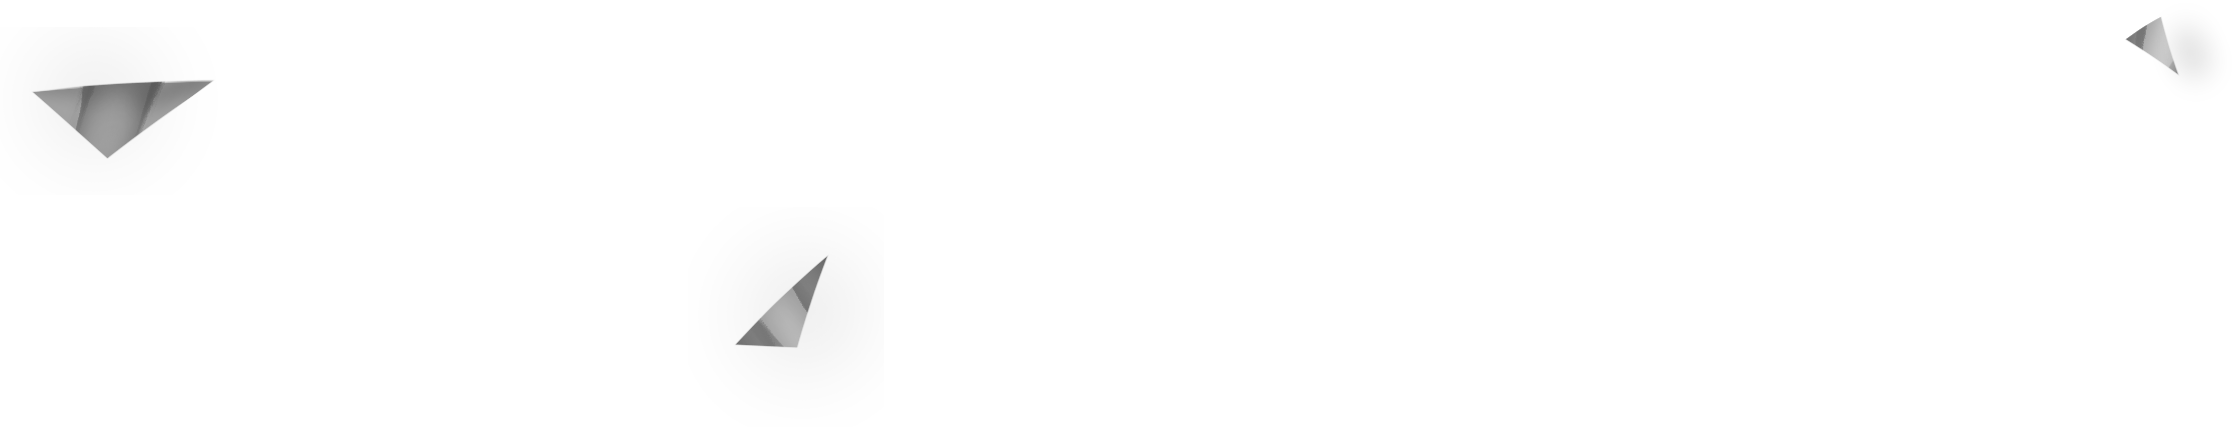
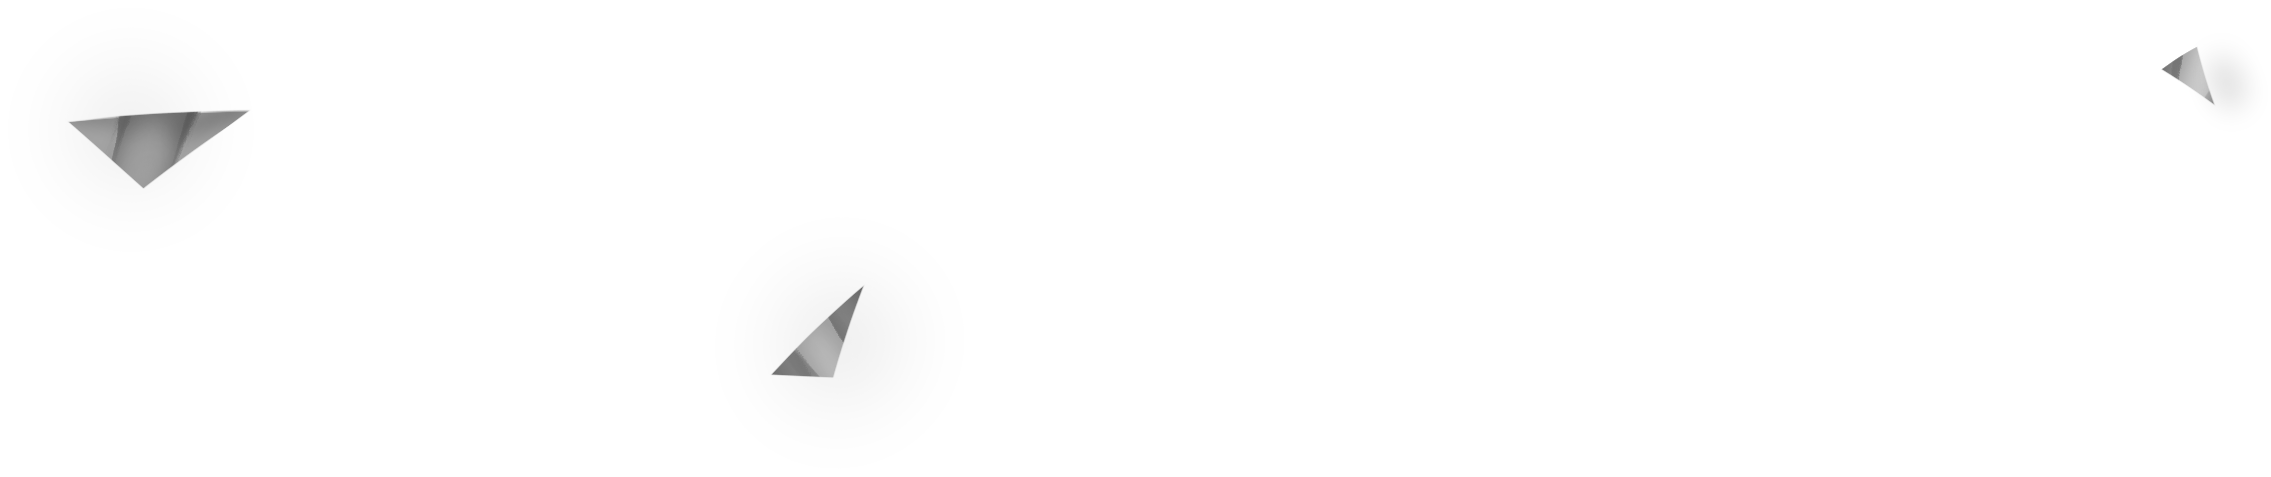
assemble checkbox graphics

Changed region(s): [[0.0, 0.1827, 0.1235, 0.3958], [0.3087, 0.6089, 0.4013, 0.822], [0.957, 0.0304, 0.9879, 0.2131]]

diff --git a/src/app/pages/menu-page/menu-page.component.html b/src/app/pages/menu-page/menu-page.component.html
@@ -17,7 +17,7 @@
                 <img src="./assets/Sign-Up-Button.png" class="button-placard">
             </div>
 
-            <div id="view-aa-button" class="center-center view-aa-button-appear-animation" (click)="navigateToVerdict()">
+            <div id="view-aa-button" class="center-center view-aa-button-appear-animation" (click)="openModal()">
                 <img src="./assets/View-AA-Title.png" id="view-aa-title" class="button-title">
                 <img src="./assets/View-AA-Button.png" class="button-placard">
             </div>
@@ -31,4 +31,52 @@
         <div id="voidPiece-2" class="voidPiece-2-appear-animation"><img src="./assets/VoidPiece-2.png"></div>
         <div id="buttonHolder-background" class="background-appear-animation"><img src="./assets/ButtonHolder-Background.png"></div>
     </div>
+    
+    <div id="checkbox" class="center-center" >
+        <div id="blur-background" (click)="closeModal()"></div>
+        <div id="checkbox-content" class="center-center">
+            
+            <div id="background-container" class="center-center">
+                <img src="./assets/Checkbox-Graphics/Checkbox-VoidPiece-1.png" id="Checkbox-VoidPiece-1" class="pos-absolute">
+                <img src="./assets/Checkbox-Graphics/Checkbox-VoidPiece-2.png" id="Checkbox-VoidPiece-2" class="pos-absolute">
+
+                <img src="./assets/Checkbox-Graphics/Checkbox-Line-1.png" id="Checkbox-Line-1" class="pos-absolute">
+                <img src="./assets/Checkbox-Graphics/Checkbox-Line-2.png" id="Checkbox-Line-2" class="pos-absolute">
+                <img src="./assets/Checkbox-Graphics/Checkbox-Line-3.png" id="Checkbox-Line-3" class="pos-absolute">
+
+                <img src="./assets/Checkbox-Graphics/GlassPieces-1.png" id="GlassPieces-1" class="pos-absolute">
+                <img src="./assets/Checkbox-Graphics/GlassPieces-2.png" id="GlassPieces-2" class="pos-absolute">
+                <img src="./assets/Checkbox-Graphics/GlassPieces-3.png" id="GlassPieces-3" class="pos-absolute">
+            </div> 
+
+            <div id="questionMark-container" class="center-center">
+                <img src="./assets/Checkbox-Graphics/QuestionMark-Holder-Decor.png" id="QuestionMark-Decor" class="pos-absolute">
+                <img src="./assets/Checkbox-Graphics/QuestionMark-Radiant.png" id="QuestionMark-Radiant" class="pos-absolute">
+                <img src="./assets/Checkbox-Graphics/QuestionMark-Background.png" id="QuestionMark-Background" class="pos-absolute">
+                <img src="./assets/Checkbox-Graphics/QuestionMark-Holder.png" id="QuestionMark-Holder" class="pos-absolute">
+                <img src="./assets/Checkbox-Graphics/QuestionMark-Outline.png" id="QuestionMark-Outline" class="pos-absolute">
+                <img src="./assets/Checkbox-Graphics/QuestionMark.png" id="QuestionMark" class="pos-absolute">
+            </div>
+
+            <div id="textbox-container" class="center-center">
+                <img src="./assets/Checkbox-Graphics/TextBox.png" id="TextBox" class="pos-absolute">
+                <img src="./assets/Checkbox-Graphics/TextBox-Outline.png" id="TextBox-Outline" class="pos-absolute">
+                <img src="./assets/Checkbox-Graphics/TextBox-Title.png" id="TextBox-Title" class="pos-absolute">
+            </div>
+
+            <div id="button-container" class="center-center">
+                <img src="./assets/Checkbox-Graphics/Checkbox-Line.png" id="" class="pos-absolute">              
+                <div id="No-checkbox" class="pos-absolute center-center" (click)="closeModal()">
+                    <img src="./assets/Checkbox-Graphics/No-Checkbox.png" id="" class="pos-absolute">
+                    <img src="./assets/Checkbox-Graphics/No-Checkbox-Title.png" id="Checkbox-Title" class="pos-absolute">
+                </div>
+                <div id="Yes-checkbox" class="pos-absolute center-center" (click)="navigateToVerdict()">
+                    <img src="./assets/Checkbox-Graphics/Yes-Checkbox.png" id="" class="pos-absolute">
+                    <img src="./assets/Checkbox-Graphics/Yes-Checkbox-Title.png" id="Checkbox-Title" class="pos-absolute">
+                </div>
+            </div>
+        </div>
+    </div>
+
 </div>
+

diff --git a/src/app/pages/menu-page/menu-page.component.scss b/src/app/pages/menu-page/menu-page.component.scss
@@ -207,6 +207,24 @@ $appearDur: 1s;
   height: 100%;
 }
 
+.blur-content{
+  filter: blur(5px);
+}
+
+@keyframes remove-blur {
+  from{
+    filter: blur(5px);
+  }
+  to{
+    filter: blur(0px);
+  }  
+}
+
+.remove-blur-content{
+  animation: remove-blur 1s ease;
+  animation-fill-mode: both;
+}
+
 #right-content{
   width: 50%;
   height: 100%; 
@@ -320,4 +338,115 @@ $appearDur: 1s;
   scale: $scale;
 
   transform: translateY(7rem);
+}
+
+//CHECKBOX CSS____________________________________________________________________________________
+$checkboxScale:.5;
+#checkbox{
+  width: 100%;
+  height: 100%;
+
+  position: absolute;
+  z-index: 1;
+  
+  overflow: hidden;
+  display: none;
+}
+
+#blur-background{
+  width: 100%;
+  height: 100%;
+  filter: blur(2rem);
+
+  background-color: #3f3636;
+  opacity: .7;
+
+  position: absolute;
+  z-index: 90;
+}
+
+#checkbox-content{
+  position: absolute;
+  z-index: 99;
+  scale: $checkboxScale;
+}
+
+.pos-absolute{
+  position: absolute;
+}
+
+#TextBox-Title{
+  transform: translateX(-14rem);
+}
+
+#No-checkbox{
+  cursor: pointer;
+  transform: translateX(-5rem);
+}
+
+#Yes-checkbox{
+  cursor: pointer;
+  transform: translateX(7rem);
+}
+
+#Checkbox-Title{
+  transform: translateX(-1rem) 
+}
+
+#QuestionMark{
+  transform:translateY(-3rem)
+}
+
+#QuestionMark-Outline{
+  transform: translateX(-1.3rem) translateY(-2rem)
+}
+
+#QuestionMark-Decor{
+  transform: translateX(-5rem) translateY(2rem)
+}
+
+#QuestionMark-Background{
+  transform: translateX(15rem)
+}
+
+#GlassPieces-1{
+  transform: translateY(4rem) translateX(-16rem);
+}
+
+#GlassPieces-2{
+  transform: translateY(22rem) translateX(-5rem);
+}
+
+#GlassPieces-3{
+  transform: translateY(-1rem) translateX(24rem)
+}
+
+#Checkbox-Line-1{
+  transform: translateY(1rem) translateX(18rem)
+}
+
+#Checkbox-Line-2{
+  transform: translateY(-5rem) translateX(-4rem)
+}
+
+#Checkbox-Line-3{
+  transform: translateY(25rem) translateX(20rem)
+}
+
+#questionMark-container{
+  transform: translateX(-25rem);
+}
+
+#textbox-container{
+  transform-origin: center right;
+  transform: translateY(-2rem) translateX(11rem) rotate(-3deg);
+}
+
+#button-container{
+  transform-origin: right center;
+  transform: translateY(7rem) translateX(20rem) rotate(-1deg);
+}
+
+#checkbox-content{
+  transform: translateY(-4rem);
 }

diff --git a/src/app/pages/menu-page/menu-page.component.ts b/src/app/pages/menu-page/menu-page.component.ts
@@ -21,15 +21,43 @@ export class MenuPageComponent {
     }, 200) 
   }
 
+  openModal(){
+    let modal = document.getElementById('checkbox');
+    let right_conttent = document.getElementById('right-content');
+    let horizonLine = document.getElementById('horizonLine');
+    
+    right_conttent!.classList.remove("remove-blur-content")
+    right_conttent!.classList.add("blur-content")
+    
+    horizonLine!.classList.remove("remove-blur-content")
+    horizonLine!.classList.add("blur-content")
+
+    modal!.style.display = 'flex';
+  }
+
+  closeModal(){
+    let modal = document.getElementById('checkbox');
+    let right_conttent = document.getElementById('right-content');
+    let horizonLine = document.getElementById('horizonLine');
+
+    right_conttent!.classList.remove("blur-content")
+    right_conttent!.classList.add("remove-blur-content")
+
+    horizonLine!.classList.remove("blur-content")
+    horizonLine!.classList.add("remove-blur-content")
+    
+    modal!.style.display = 'none';
+  }
+
   navigateToVerdict(){
     setTimeout(() =>{
-      this.Router.navigate(['verdict'])
+      // this.Router.navigate(['verdict'])
     }, 200) 
 
   }
 
-  hoverEffect(button:string){
-    let buttonHover = document.getElementById(`${button}`);
-    buttonHover!.classList.remove(`${button}-appear-animation`)
-  }
+  // hoverEffect(button:string){
+  //   let buttonHover = document.getElementById(`${button}`);
+  //   buttonHover!.classList.remove(`${button}-appear-animation`)
+  // }
 }
